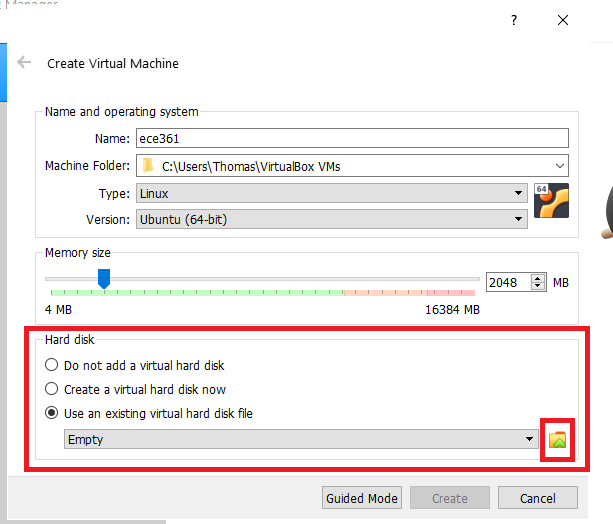
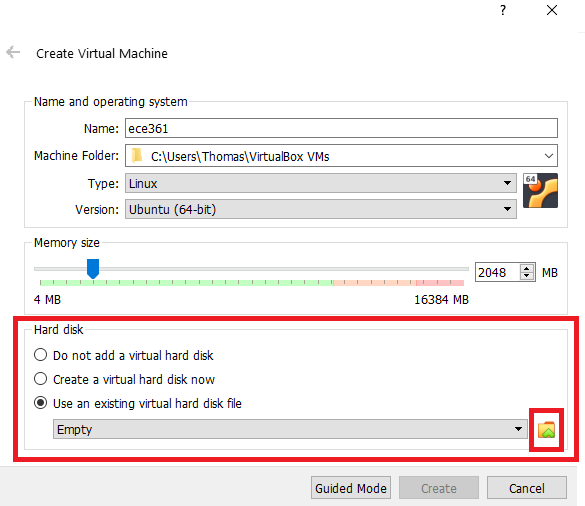
Clean-up VBox handout images (re-size + crop), and removed redundant images

diff --git a/virtualbox/virtualbox.tex b/virtualbox/virtualbox.tex
@@ -27,11 +27,6 @@ The labs in this course will be conducted using a Linux-based virtual machine (V
 
 In this course, you will use VirtualBox~\footnote{VirtualBox: https://www.virtualbox.org/} as the hypervisor. VirtualBox is free and available for Windows, macOS, and Linux. The purpose of this setup guide is to walk you through how to install VirtualBox on your computer, and how to setup the course VM.
 
-% These labs will be conducted using a virtual machine (VM) which we will provide you. To run this VM, you will need to download and install a software called VirtualBox (available for Windows, macOS, and Linux) on your personal computer. See the VirtualBox Setup Guide handout for details on how to install and setup the VM.
-
-%If you have trouble getting the VM to work, please either bring your laptop to the first lab session  and ask a TA for help (preferred), or make a post detailing the problem on the discussion board. If neither you nor your partner own a computer capable of running the VM, please let the head TA know, and you will be provided with a cloud-based VM which you can access via VNC.
-
-
 
 %-------------------------------------------------------------------------------------------------
 \section{Download and Installation}
@@ -41,14 +36,10 @@ Download and save the appropriate installation package for your platform. To dow
 
 This section will walk you through the installation process. Please go to section~\ref{subsec:install-windows} if you use Windows, or section~\ref{subsec:install-osx} if you use macOS.
 
-%\work{You can use this box to highlight a specific work item.}
-
-
 %-------------------------------------------------------------------------------------------------
 \subsection{Installation (Windows)}
 \label{subsec:install-windows}
 %-------------------------------------------------------------------------------------------------
-%\hint{If you want to stress a hint for students, you can use this box.}
 This section will walk you through an installation of VirtualBox version \textbf{6.1.0} on \textbf{Windows 10}. Other versions of VirtualBox should have a similar process, though the following figures below may not exactly match.
 
 \textbf{Step 1:} Locate the *.exe installation package that you downloaded and run it. You should see something similar to the Fig.~\ref{install-1}. Click on \texttt{Next} to proceed.
@@ -57,30 +48,27 @@ This section will walk you through an installation of VirtualBox version \textbf
 %   2) Image file name and label
 %   3) Other 'includegraphics' parameters
 %   4) Caption
-\figvs{0.4}{install-1}{trim=0cm 0cm 0cm 0cm,clip}{Launching the VirtualBox Setup Wizard.}
+\figvs{0.6}{install-1}{trim=0cm 0cm 0cm 0cm,clip}{Launching the VirtualBox Setup Wizard.}
 
 \textbf{Step 2:} In the custom setup options, Fig.~\ref{install-2}, keep the default settings (i.e. install everything). Click on \texttt{Next} to proceed.
-\figvs{0.4}{install-2}{trim=0cm 0cm 0cm 0cm,clip}{VirtualBox custom setup options.}
+\figvs{0.6}{install-2}{trim=0cm 0cm 0cm 0cm,clip}{VirtualBox custom setup options.}
 
 \textbf{Step 3:} Of the various options shown in Fig.~\ref{install-3}, you should register the file associations such that VirtualBox can recognize VM-related file extensions. If you prefer not to create shortcuts and start menu entries, you may skip the first three items.
-\figvs{0.4}{install-3}{trim=0cm 0cm 0cm 0cm,clip}{VirtualBox shortcuts and file associations.}
+\figvs{0.6}{install-3}{trim=0cm 0cm 0cm 0cm,clip}{VirtualBox shortcuts and file associations.}
 
 \textbf{Step 4:} In order for your VM to have access to the Internet (which is required for this course), you need to install the VirtualBox networking features. Click on \texttt{Yes} in the dialog shown in Fig.~\ref{install-4}.
 
 \warn{This step may temporarily reset your network connection. If you're in the middle of an important connection (e.g. file download, video conferencing, etc.), wait until you're finished before proceeding with the installation}
-\figvs{0.4}{install-4}{trim=0cm 0cm 0cm 0cm,clip}{VirtualBox networking interfaces must be installed.}
+\figvs{0.6}{install-4}{trim=0cm 0cm 0cm 0cm,clip}{VirtualBox networking interfaces must be installed.}
 
 \textbf{Step 5:} Now you're ready to proceed with the installation. Click on \texttt{Install}.
-\figvs{0.4}{install-5}{trim=0cm 0cm 0cm 0cm,clip}{Confirm to begin installation.}
+\figvs{0.6}{install-5}{trim=0cm 0cm 0cm 0cm,clip}{Confirm to begin installation.}
 
 \textbf{Step 6:} The installation process may prompt you to install the Oracle Corporation Universal Serial Bus (USB) package, as seen in Fig.~\ref{install-6}. This enables your VM to connect to USB devices on your physical computer. This is highly recommended as you may occasionally wish to connect a USB device to your VM (e.g. a flash drive if the networking fails, or a mouse). Click on \texttt{Install} to proceed.
-\figvs{0.4}{install-6}{trim=0cm 0cm 0cm 0cm,clip}{Confirm installation of the Oracle Universal Serial Bus package.}
+\figvs{0.6}{install-6}{trim=0cm 0cm 0cm 0cm,clip}{Confirm installation of the Oracle Universal Serial Bus package.}
 
-\textbf{Step 7:} When the installation has finished, you should see something similar to Fig.~\ref{install-7}. Click \texttt{Finish} to complete the process and launch VirtualBox.
-\figvs{0.4}{install-7}{trim=0cm 0cm 0cm 0cm,clip}{Finished installation.}
-
-\textbf{Step 8:} When VirtualBox launches, you should see the VirtualBox Manager, similar to that shown in Fig.~\ref{install-8}.
-\figvs{0.4}{install-8}{trim=0cm 0cm 0cm 0cm,clip}{VirtualBox Manager interface.}
+\textbf{Step 7:} When the installation has finished, click \texttt{Finish} to complete the process and launch VirtualBox. You should see the VirtualBox Manager, similar to that shown in Fig.~\ref{vbox-manager}.
+\figvs{0.8}{vbox-manager}{trim=0cm 0cm 0cm 0cm,clip}{VirtualBox Manager interface.}
 
 Proceed to section~\ref{sec:setup-run-vm} to download, setup, and run the course VM.
 
@@ -90,28 +78,20 @@ Proceed to section~\ref{sec:setup-run-vm} to download, setup, and run the course
 This section will walk you through an installation of VirtualBox version \textbf{6.1.0} on \textbf{macOS Catalina}. Other versions should have a similar process, though the following figures below may not exactly match.
 
 \textbf{Step 1:} Locate the *.dmg installation package that you downloaded and run it. You should see something similar to the Fig.~\ref{mac-install-1}. Click on \texttt{Continue} to proceed.
-\figvs{0.4}{mac-install-1}{trim=0cm 0cm 0cm 0cm,clip}{VirtualBox Manager interface.}
+\figvs{0.6}{mac-install-1}{trim=0cm 0cm 0cm 0cm,clip}{VirtualBox Manager interface.}
 
 \textbf{Step 2:} Click \texttt{Install} on the next screen. The installer may prompt you to enter your computer's user name and password, as seen in Fig.~\ref{mac-install-2}; please do so, as this is perfectly safe.
-\figvs{0.4}{mac-install-2}{trim=0cm 0cm 0cm 0cm,clip}{VirtualBox Manager interface.}
+\figvs{0.6}{mac-install-2}{trim=0cm 0cm 0cm 0cm,clip}{VirtualBox Manager interface.}
 
 If the installation fails with the message shown in Fig.~\ref{mac-install-2a}, then you will have to modify the Security \& Privacy settings on your computer.
-\figvs{0.4}{mac-install-2a}{trim=0cm 0cm 0cm 0cm,clip}{VirtualBox Manager interface.}
+\figvs{0.6}{mac-install-2a}{trim=0cm 0cm 0cm 0cm,clip}{VirtualBox Manager interface.}
 
 Go to your computer's Security \& Privacy settings. Click the lock button at the bottom-left corner and enter your password. Click on \texttt{Allow}, as seen in Fig.~\ref{mac-install-2b}. Afterwards, you'll have to re-run the installation package.
-\figvs{0.4}{mac-install-2b}{trim=0cm 0cm 0cm 0cm,clip}{VirtualBox Manager interface.}
+\figvs{0.6}{mac-install-2b}{trim=0cm 0cm 0cm 0cm,clip}{VirtualBox Manager interface.}
 
-\textbf{Step 3:} If all goes well, you should see something similar to Fig.~\ref{mac-install-3}. Click on \texttt{Close} to finish.
-\figvs{0.4}{mac-install-3}{trim=0cm 0cm 0cm 0cm,clip}{VirtualBox Manager interface.}
+\textbf{Step 3:} If all goes well and the installation process is finished, launch VirtualBox. You should see something similar to Fig.~\ref{vbox-manager}.
 
 You're now ready to download, setup, and run the course VM.
-
-% figvs takes 4 parameters (see the style sheet for source code)
-%   1) Image width (w.r.t. column)
-%   2) Image file name
-%   3) Other 'includegraphics' parameters
-%   4) Caption
-%\figvs{0.4}{spock}{trim=0cm 0cm 0cm 0cm,clip}{Spock from Amok Time. First aired Sept. 15th 1967.}
 
 %-------------------------------------------------------------------------------------------------
 \section{Setup and Running the Course VM}
@@ -131,43 +111,43 @@ In this section, you will download and and setup the course VM.
 \noindent Once you've downloaded it, un-tar it to extract the \texttt{ece361.vdi} file within. The *.vdi extension format indicates this is a Virtual Disk Image.
 
 \textbf{Step 2:} Start VirtualBox. In the VirtualBox Manager, click on \texttt{New} as highlighted in Fig.~\ref{vm-1}.
-\figvs{0.4}{vm-1}{trim=0cm 0cm 0cm 0cm,clip}{Create a new VM in the VirtualBox Manager.}
+\figvs{0.6}{vm-1}{trim=0cm 0cm 0cm 0cm,clip}{Create a new VM in the VirtualBox Manager.}
 
 \textbf{Step 3:} Click on \texttt{Expert Mode}, highlighted in Fig.~\ref{vm-2}, to see more configuration options.
-\figvs{0.4}{vm-2}{trim=0cm 0cm 0cm 0cm,clip}{Enabled Expert Mode.}
+\figvs{0.6}{vm-2}{trim=0cm 0cm 0cm 0cm,clip}{Enabled Expert Mode.}
 
 \textbf{Step 4:} Provide your VM with a name (e.g. \texttt{ece361}). Specify \texttt{Linux} as the type, using \texttt{Ubuntu (64-bit)} as the version. For the memory size, 2048 MB (2 GB) is the minimum recommended amount to allocate to your VM.
 \point{If you only see 32-bit options, please see the Troubleshooting (section~\ref{sec:troubleshooting}) below.}
-\figvs{0.4}{vm-3}{trim=0cm 0cm 0cm 0cm,clip}{VM configuration options.}
+\figvs{0.6}{vm-3}{trim=0cm 0cm 0cm 0cm,clip}{VM configuration options.}
 
 \textbf{Step 5:} Select \texttt{Use an existing virtual hard disk file} and click on the small folder icon in the bottom right, as shown in Fig.~\ref{vm-4}. This will open up the Hard Disk Selector.
-\figvs{0.4}{vm-4}{trim=0cm 0cm 0cm 0cm,clip}{Specify that you will use an existing virtual hard disk.}
+\figvs{0.6}{vm-4}{trim=0cm 0cm 0cm 0cm,clip}{Specify that you will use an existing virtual hard disk.}
 
 \textbf{Step 6:} In the Hard Disk Selector, click on \texttt{Add} as shown in Fig.~\ref{vm-5}. Browse to where you extracted \texttt{ece361.vdi}, and select it, then confirm by clicking on \texttt{Choose}.
-\figvs{0.4}{vm-5}{trim=0cm 0cm 0cm 0cm,clip}{VirtualBox Hard Disk Selector.}
+\figvs{0.6}{vm-5}{trim=0cm 0cm 0cm 0cm,clip}{VirtualBox Hard Disk Selector.}
 
 \textbf{Step 7:} Finally, click on \texttt{Create} to create the VM. Note that this does not run the VM yet.
-\figvs{0.4}{vm-6}{trim=0cm 0cm 0cm 0cm,clip}{Create the VM.}
+\figvs{0.6}{vm-6}{trim=0cm 0cm 0cm 0cm,clip}{Create the VM.}
 
 \textbf{Step 8:} Before you run the VM, modify the VM's settings to allocate more CPUs to it. Click on \texttt{Settings} as shown in Fig.~\ref{vm-7}.
-\figvs{0.4}{vm-7}{trim=0cm 0cm 0cm 0cm,clip}{Modifying the VM's settings.}
+\figvs{0.6}{vm-7}{trim=0cm 0cm 0cm 0cm,clip}{Modifying the VM's settings.}
 
 Select \texttt{System} on the left, followed by \texttt{Processor} on the right (see Fig~\ref{vm-8}, and adjust the number of CPUs allocated. A minimum of 2 is required, but more is better (e.g. 4 would be optimal). Press \texttt{OK} when finished.
-\figvs{0.4}{vm-8}{trim=0cm 0cm 0cm 0cm,clip}{Adjusting the VM's allocation of CPUs.}
+\figvs{0.6}{vm-8}{trim=0cm 0cm 0cm 0cm,clip}{Adjusting the VM's allocation of CPUs.}
 
 %-------------------------------------------------------------------------------------------------
 \subsection{Running the Course VM}
 \label{subsec:run-vm}
 %-------------------------------------------------------------------------------------------------
 Now that you've created a VM with VirtualBox using the disk image provided, you can start the VM. In the VirtualBox Manager, click the \texttt{Start} button with the green arrow, as shown in Fig.~\ref{vm-start-1}.
-\figvs{0.4}{vm-start-1}{trim=0cm 0cm 0cm 0cm,clip}{Start the virtual machine.}
+\figvs{0.6}{vm-start-1}{trim=0cm 0cm 0cm 0cm,clip}{Start the virtual machine.}
 
 After a while, you should see the graphical login page, Fig~\ref{vm-start-2}. You can log into the default account, named \textbf{\texttt{ubuntu}}, using the password \textbf{\texttt{ece361}}.
-\figvs{0.4}{vm-start-2}{trim=0cm 0cm 0cm 0cm,clip}{Login page of the course VM.}
+\figvs{0.6}{vm-start-2}{trim=0cm 0cm 0cm 0cm,clip}{Login page of the course VM.}
 
 Once logged in, you should see the desktop, similar to Fig.~\ref{vm-start-3}. If this is the first time running the VM, update it now!
 \work{Update the VM: Open a terminal (in the VM), and type \texttt{ece361-update}}
-\figvs{0.4}{vm-start-3}{trim=0cm 0cm 0cm 0cm,clip}{Desktop of the course VM.}
+\figvs{0.6}{vm-start-3}{trim=0cm 0cm 0cm 0cm,clip}{Desktop of the course VM.}
 
 
 \newpage
@@ -183,18 +163,18 @@ This section provides troubleshooting for common issues. If you're facing a prob
 You will need to first install the VirtualBox Guest Additions \textit{into the VM itself}, then adjust the VM's monitor settings.
 
 \textbf{Step 1:} Insert VirtualBox's Guest Additions CD image into the VM, as seen in Fig.~\ref{tshoot-guest-ext-1}. When it asks to open it in the File Manager, click \texttt{OK}.
-\figvs{0.4}{tshoot-guest-ext-1}{trim=0cm 0cm 0cm 0cm,clip}{Insert the GuestAdditions CD image.}
+\figvs{0.6}{tshoot-guest-ext-1}{trim=0cm 0cm 0cm 0cm,clip}{Insert the GuestAdditions CD image.}
 
 \textbf{Step 2:} Double-click on \texttt{autorun.sh}. In the resulting options, select \texttt{Execute}. This process may take up to a minute before it finishes.
-\figvs{0.4}{tshoot-guest-ext-2}{trim=0cm 0cm 0cm 0cm,clip}{Execute the installation process.}
+\figvs{0.6}{tshoot-guest-ext-2}{trim=0cm 0cm 0cm 0cm,clip}{Execute the installation process.}
 
 \textbf{Step 3:} Reboot the VM.
 
 \textbf{Step 4:} Once the VM has been rebooted and you've logged back in, select \texttt{Scaled Mode}, as seen in Fig~\ref{tshoot-scale-1}. 
-\figvs{0.4}{tshoot-scale-1}{trim=0cm 0cm 0cm 0cm,clip}{Enable Scaled Mode.}
+\figvs{0.6}{tshoot-scale-1}{trim=0cm 0cm 0cm 0cm,clip}{Enable Scaled Mode.}
 
 \textbf{Step 5:} Find the VM's monitor settings, and adjust the resolution as you see fit.
-\figvs{0.4}{tshoot-scale-2}{trim=0cm 0cm 0cm 0cm,clip}{Adjust the Monitor Settings.}
+\figvs{0.6}{tshoot-scale-2}{trim=0cm 0cm 0cm 0cm,clip}{Adjust the Monitor Settings.}
 
 
 %-------------------------------------------------------------------------------------------------
